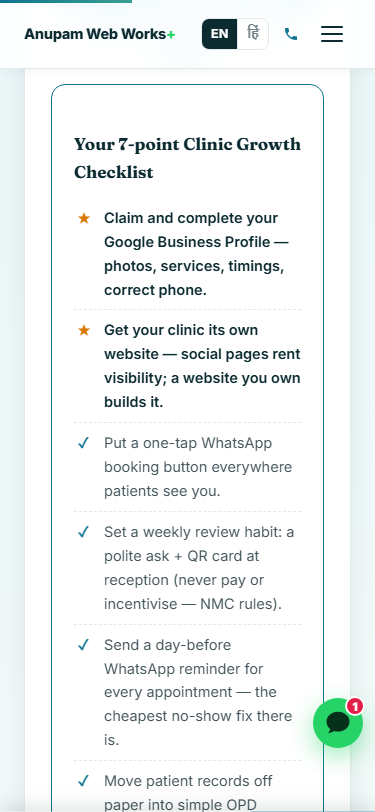
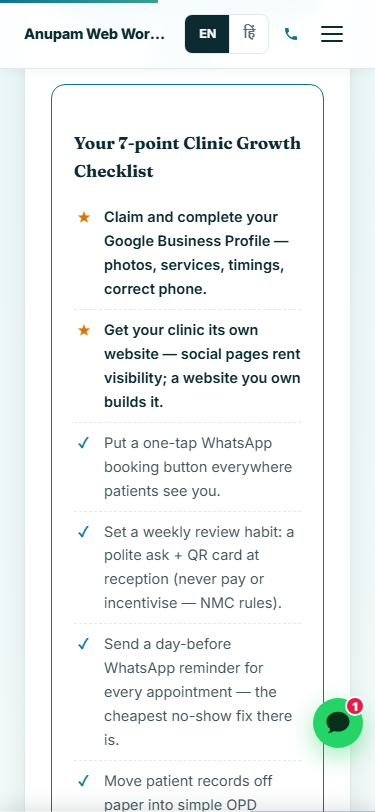
Lighthouse round: contrast, tap targets, fab aria, async fonts, content-visibility

diff --git a/index.html b/index.html
@@ -23,7 +23,7 @@
 
 <link rel="preconnect" href="https://fonts.googleapis.com">
 <link rel="preconnect" href="https://fonts.gstatic.com" crossorigin>
-<link href="https://fonts.googleapis.com/css2?family=Fraunces:opsz,wght@9..144,600;9..144,700&family=Inter:wght@400;500;600;700;800&display=swap" rel="stylesheet">
+<link href="https://fonts.googleapis.com/css2?family=Fraunces:opsz,wght@9..144,600;9..144,700&family=Inter:wght@400;500;600;700;800&display=swap" rel="stylesheet" media="print" onload="this.media='all'"><noscript><link href="https://fonts.googleapis.com/css2?family=Fraunces:opsz,wght@9..144,600;9..144,700&family=Inter:wght@400;500;600;700;800&display=swap" rel="stylesheet"></noscript>
 <link rel="stylesheet" href="style.css?v=11">
 <link rel="icon" href="favicon.svg" type="image/svg+xml">
 <link rel="alternate icon" href="favicon.png" sizes="64x64">
@@ -724,7 +724,7 @@
      target="_blank" rel="noopener">
     <svg class="chat__i-chat" viewBox="0 0 24 24" aria-hidden="true"><path fill="currentColor" d="M12 3C6.9 3 2.8 6.5 2.8 10.9c0 2.3 1.1 4.3 2.9 5.7-.1 1-.6 2.4-1.6 3.5 0 0 2.6-.3 4.6-1.8 1 .3 2.1.5 3.3.5 5.1 0 9.2-3.5 9.2-7.9S17.1 3 12 3Z"/></svg>
     <svg class="chat__i-close" viewBox="0 0 24 24" aria-hidden="true"><path fill="currentColor" d="M19 6.4 17.6 5 12 10.6 6.4 5 5 6.4 10.6 12 5 17.6 6.4 19 12 13.4 17.6 19 19 17.6 13.4 12 19 6.4Z"/></svg>
-    <span class="chat__badge" id="chatBadge">1</span>
+    <span class="chat__badge" id="chatBadge" aria-hidden="true">1</span>
   </a>
 </div>
 

diff --git a/style.css b/style.css
@@ -1,4 +1,4 @@
-/* ==========================================================================
+/* ==========================================================================
    Anupam Singh — website development, Hyderabad
    Hand-written CSS. No framework, no build step.
    Edit colours in one place: the :root block below.
@@ -11,7 +11,7 @@ html[lang="hi"] h1,html[lang="hi"] h2,html[lang="hi"] h3{line-height:1.32}
   /* Calm, credible healthcare palette: one teal primary, warm neutrals. */
   --ink:      #0b2b31;   /* headings, dark surfaces — deep sea-teal */
   --body:     #44555b;   /* body text */
-  --muted:    #71848a;   /* captions, fine print */
+  --muted:    #5d6e74;   /* captions, fine print */
   --line:     #e2e9ea;   /* borders */
   --bg:       #ffffff;
   --bg-alt:   #f4f9f8;   /* soft mint-white for alternating sections */
@@ -798,3 +798,8 @@ ul,ol{margin:0;padding:0;list-style:none}
 /* nav fix: longer brand name must shrink, never push the burger off-screen */
 .nav__logo{min-width:0;flex:0 1 auto;overflow:hidden;text-overflow:ellipsis;white-space:nowrap}
 @media(max-width:480px){.nav__logo{font-size:14.5px}.nav__inner{gap:14px}}
+
+/* a11y + perf (Lighthouse round 1) */
+.lang button{padding:10px 14px;min-width:34px}
+/* long-page layout cost: skip rendering below-fold sections until needed */
+section.section,.statstrip{content-visibility:auto;contain-intrinsic-size:auto 640px}
